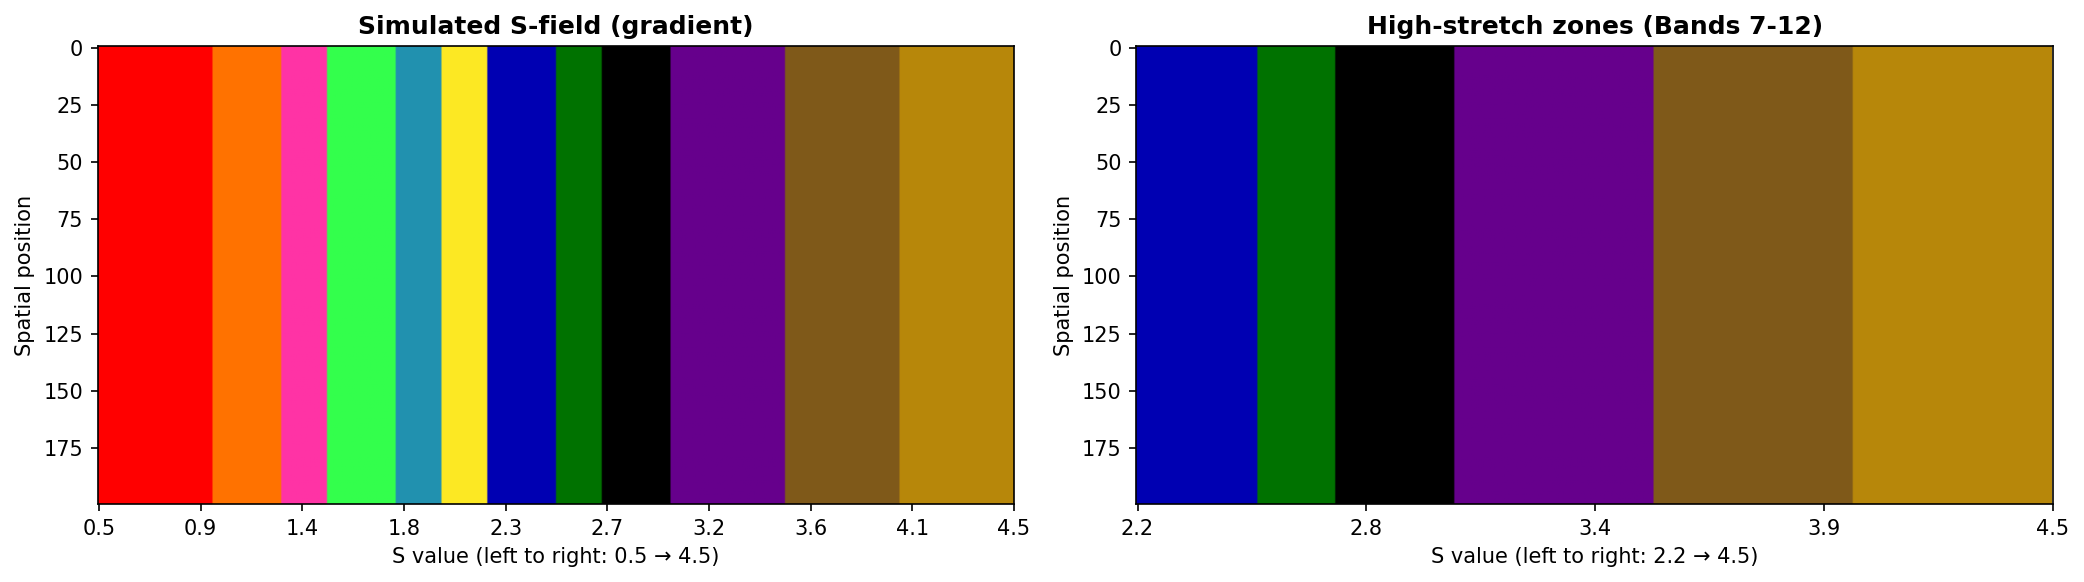
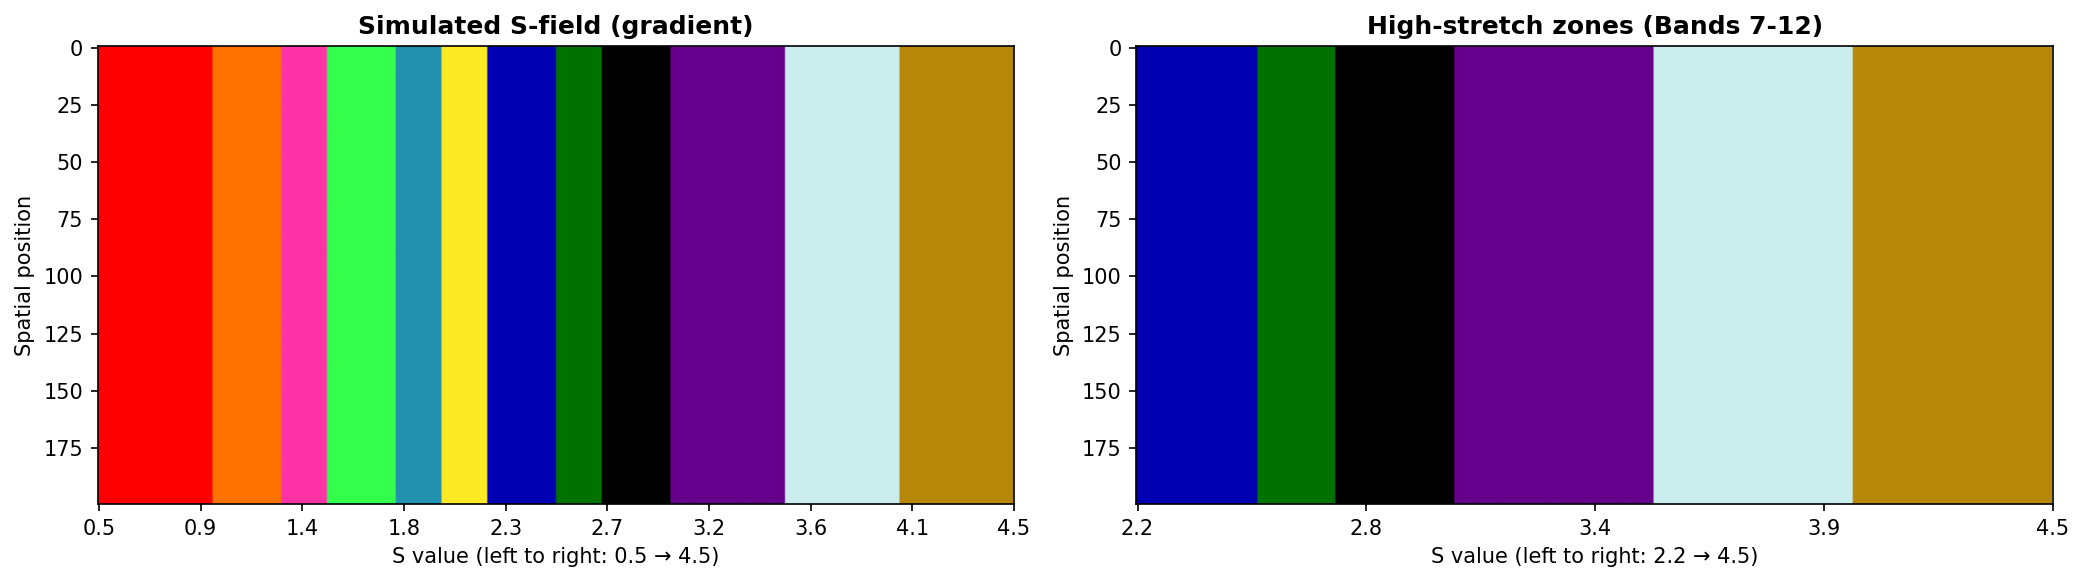
Change band 11 (3.5<S<=4.0) from brown to eggshell blue
Replaces the brown swatch with a pale eggshell blue for sharper
contrast against neighboring purple (band 10) and goldenrod (band 12).

https://claude.ai/code/session_0189QA2iwgitXKzVHP2vtWgz

Changed region(s): [[0.7798, 0.0619, 0.9045, 0.866], [0.3743, 0.0619, 0.4367, 0.866]]

diff --git a/visualize_bands.py b/visualize_bands.py
@@ -17,7 +17,7 @@ band_cmap = np.array([
     [0.00, 0.45, 0.00],   # 8: dark green       2.5<S<=2.7
     [0.00, 0.00, 0.00],   # 9: black            2.7<S<=3.0
     [0.40, 0.00, 0.55],   # 10: dark purple     3.0<S<=3.5
-    [0.50, 0.35, 0.10],   # 11: diarrhea brown  3.5<S<=4.0
+    [0.80, 0.93, 0.93],   # 11: eggshell blue   3.5<S<=4.0
     [0.72, 0.53, 0.04],   # 12: deep goldenrod  S>4.0
 ])
 
@@ -32,7 +32,7 @@ labels = [
     '2.5 < S ≤ 2.7\n(dark green)',
     '2.7 < S ≤ 3.0\n(black)',
     '3.0 < S ≤ 3.5\n(purple)',
-    '3.5 < S ≤ 4.0\n(brown)',
+    '3.5 < S ≤ 4.0\n(eggshell blue)',
     'S > 4.0\n(goldenrod)',
 ]
 
